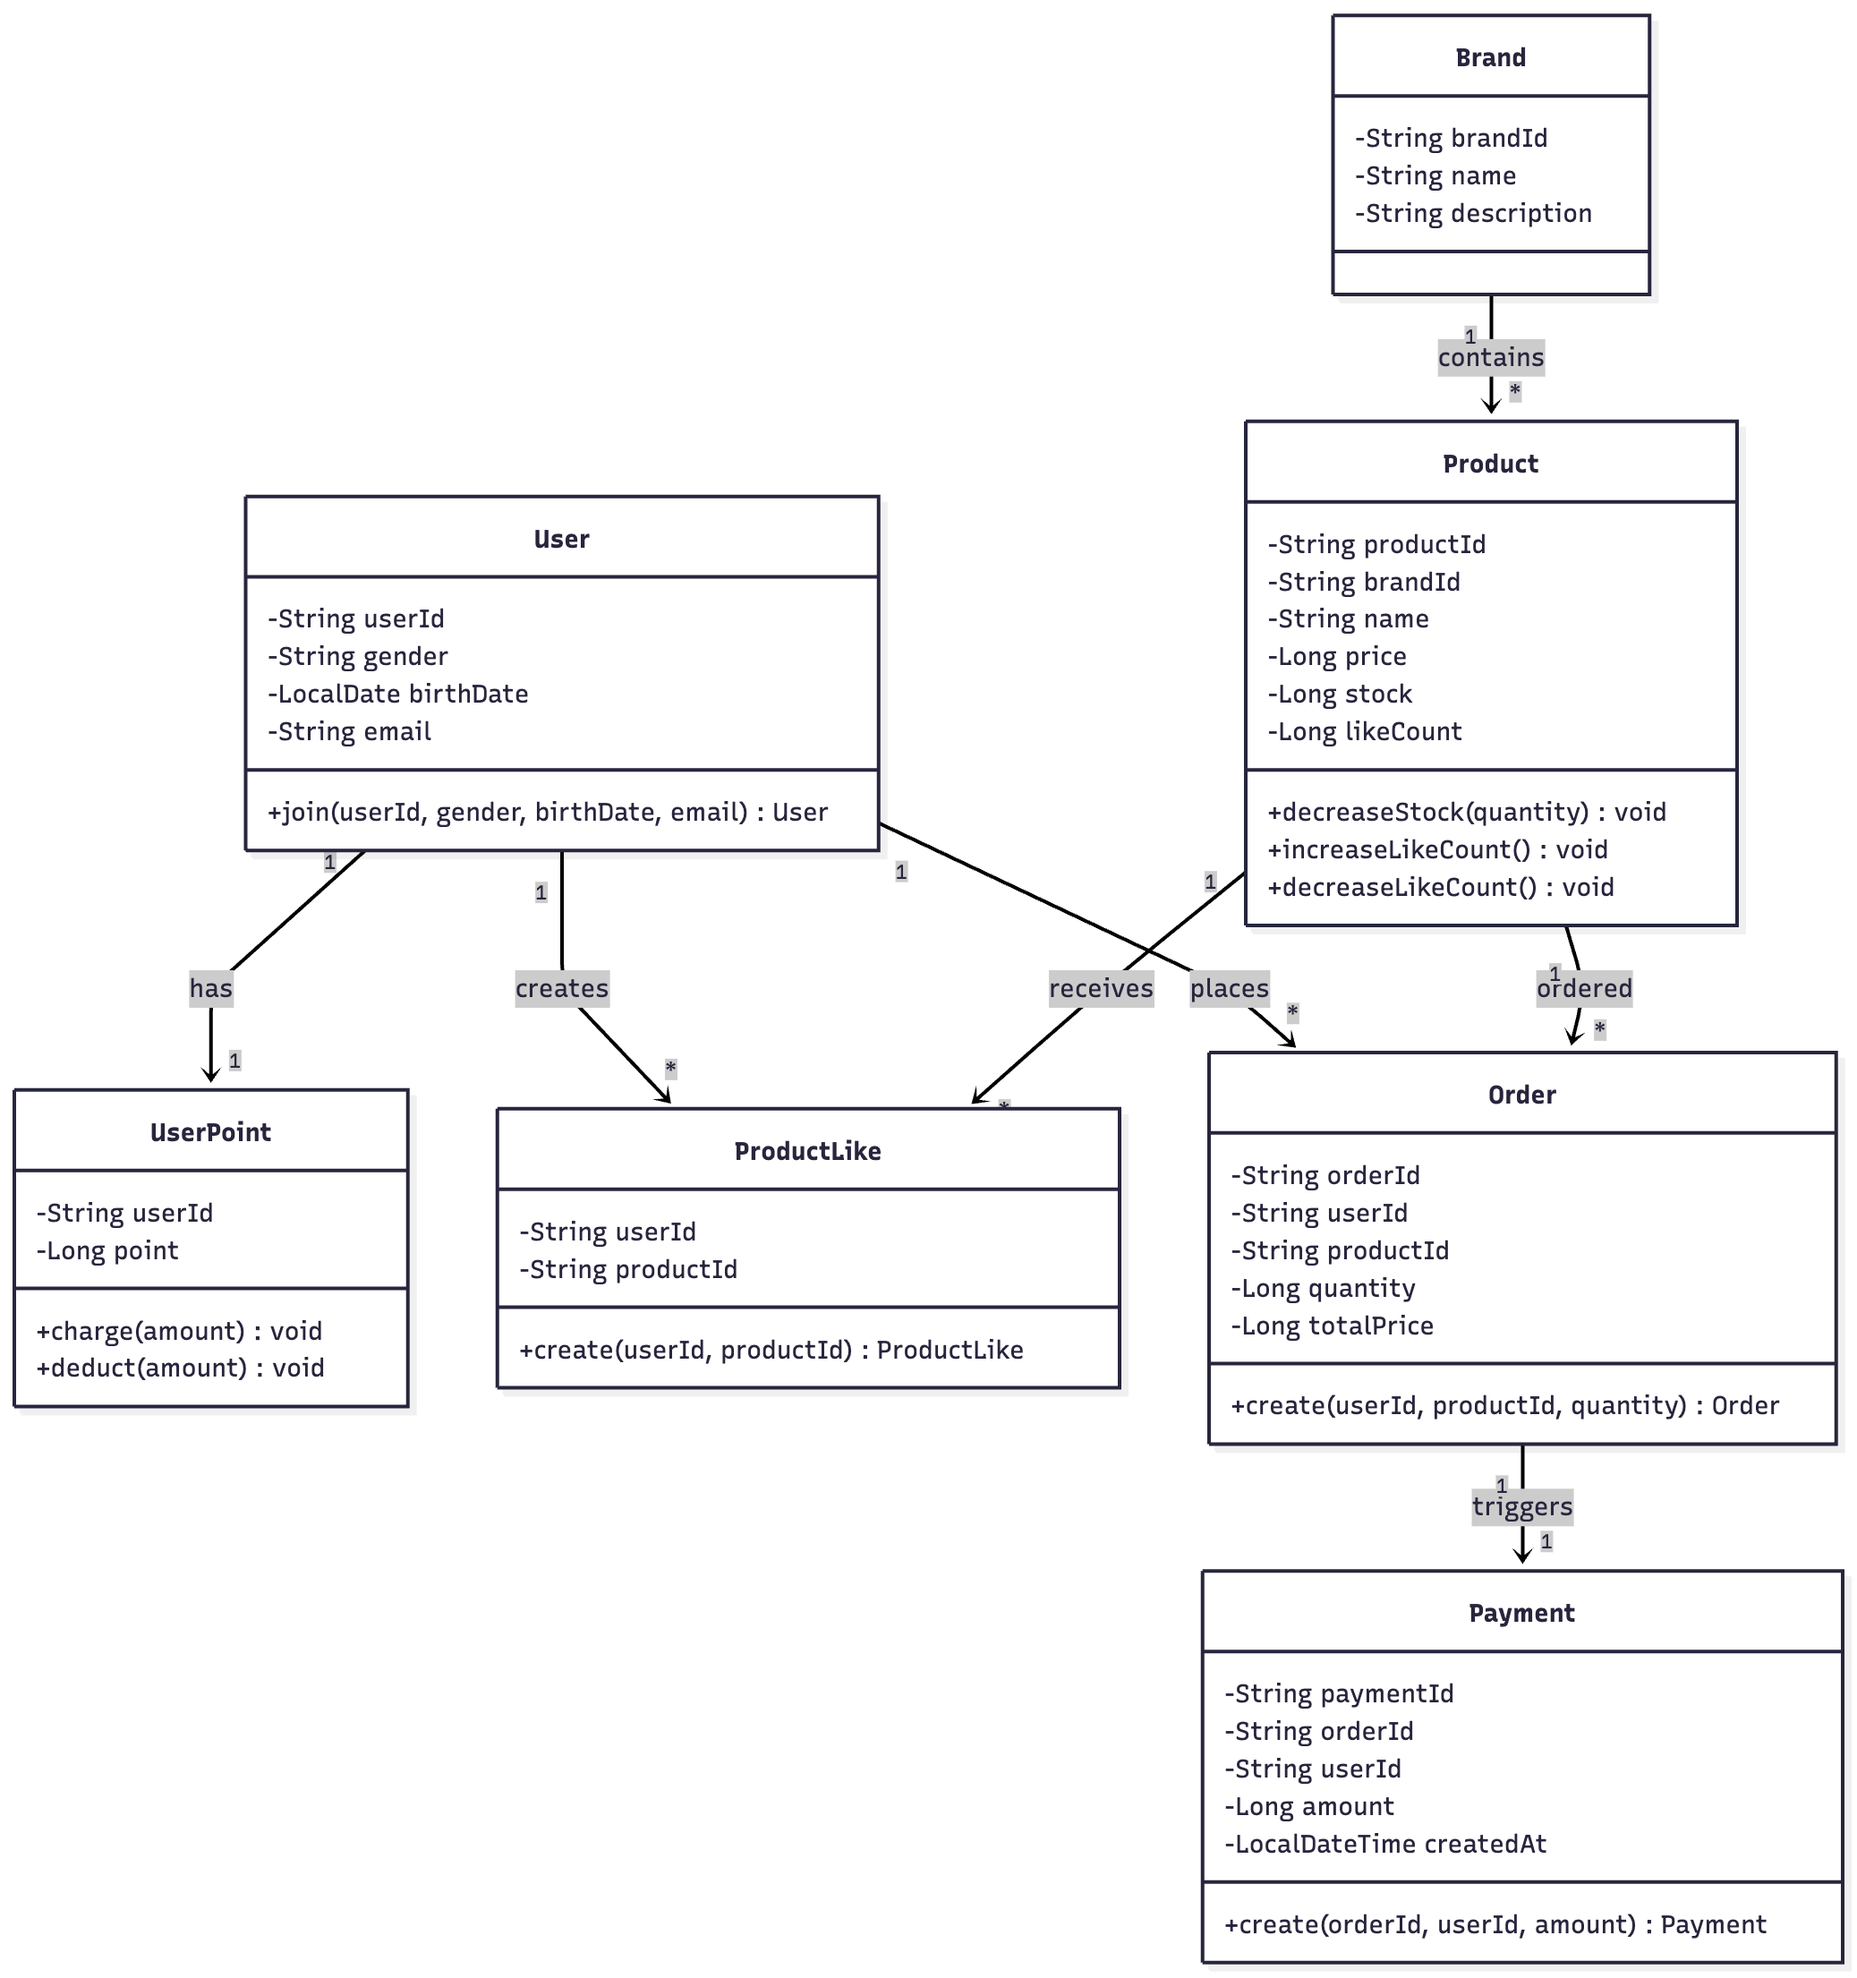
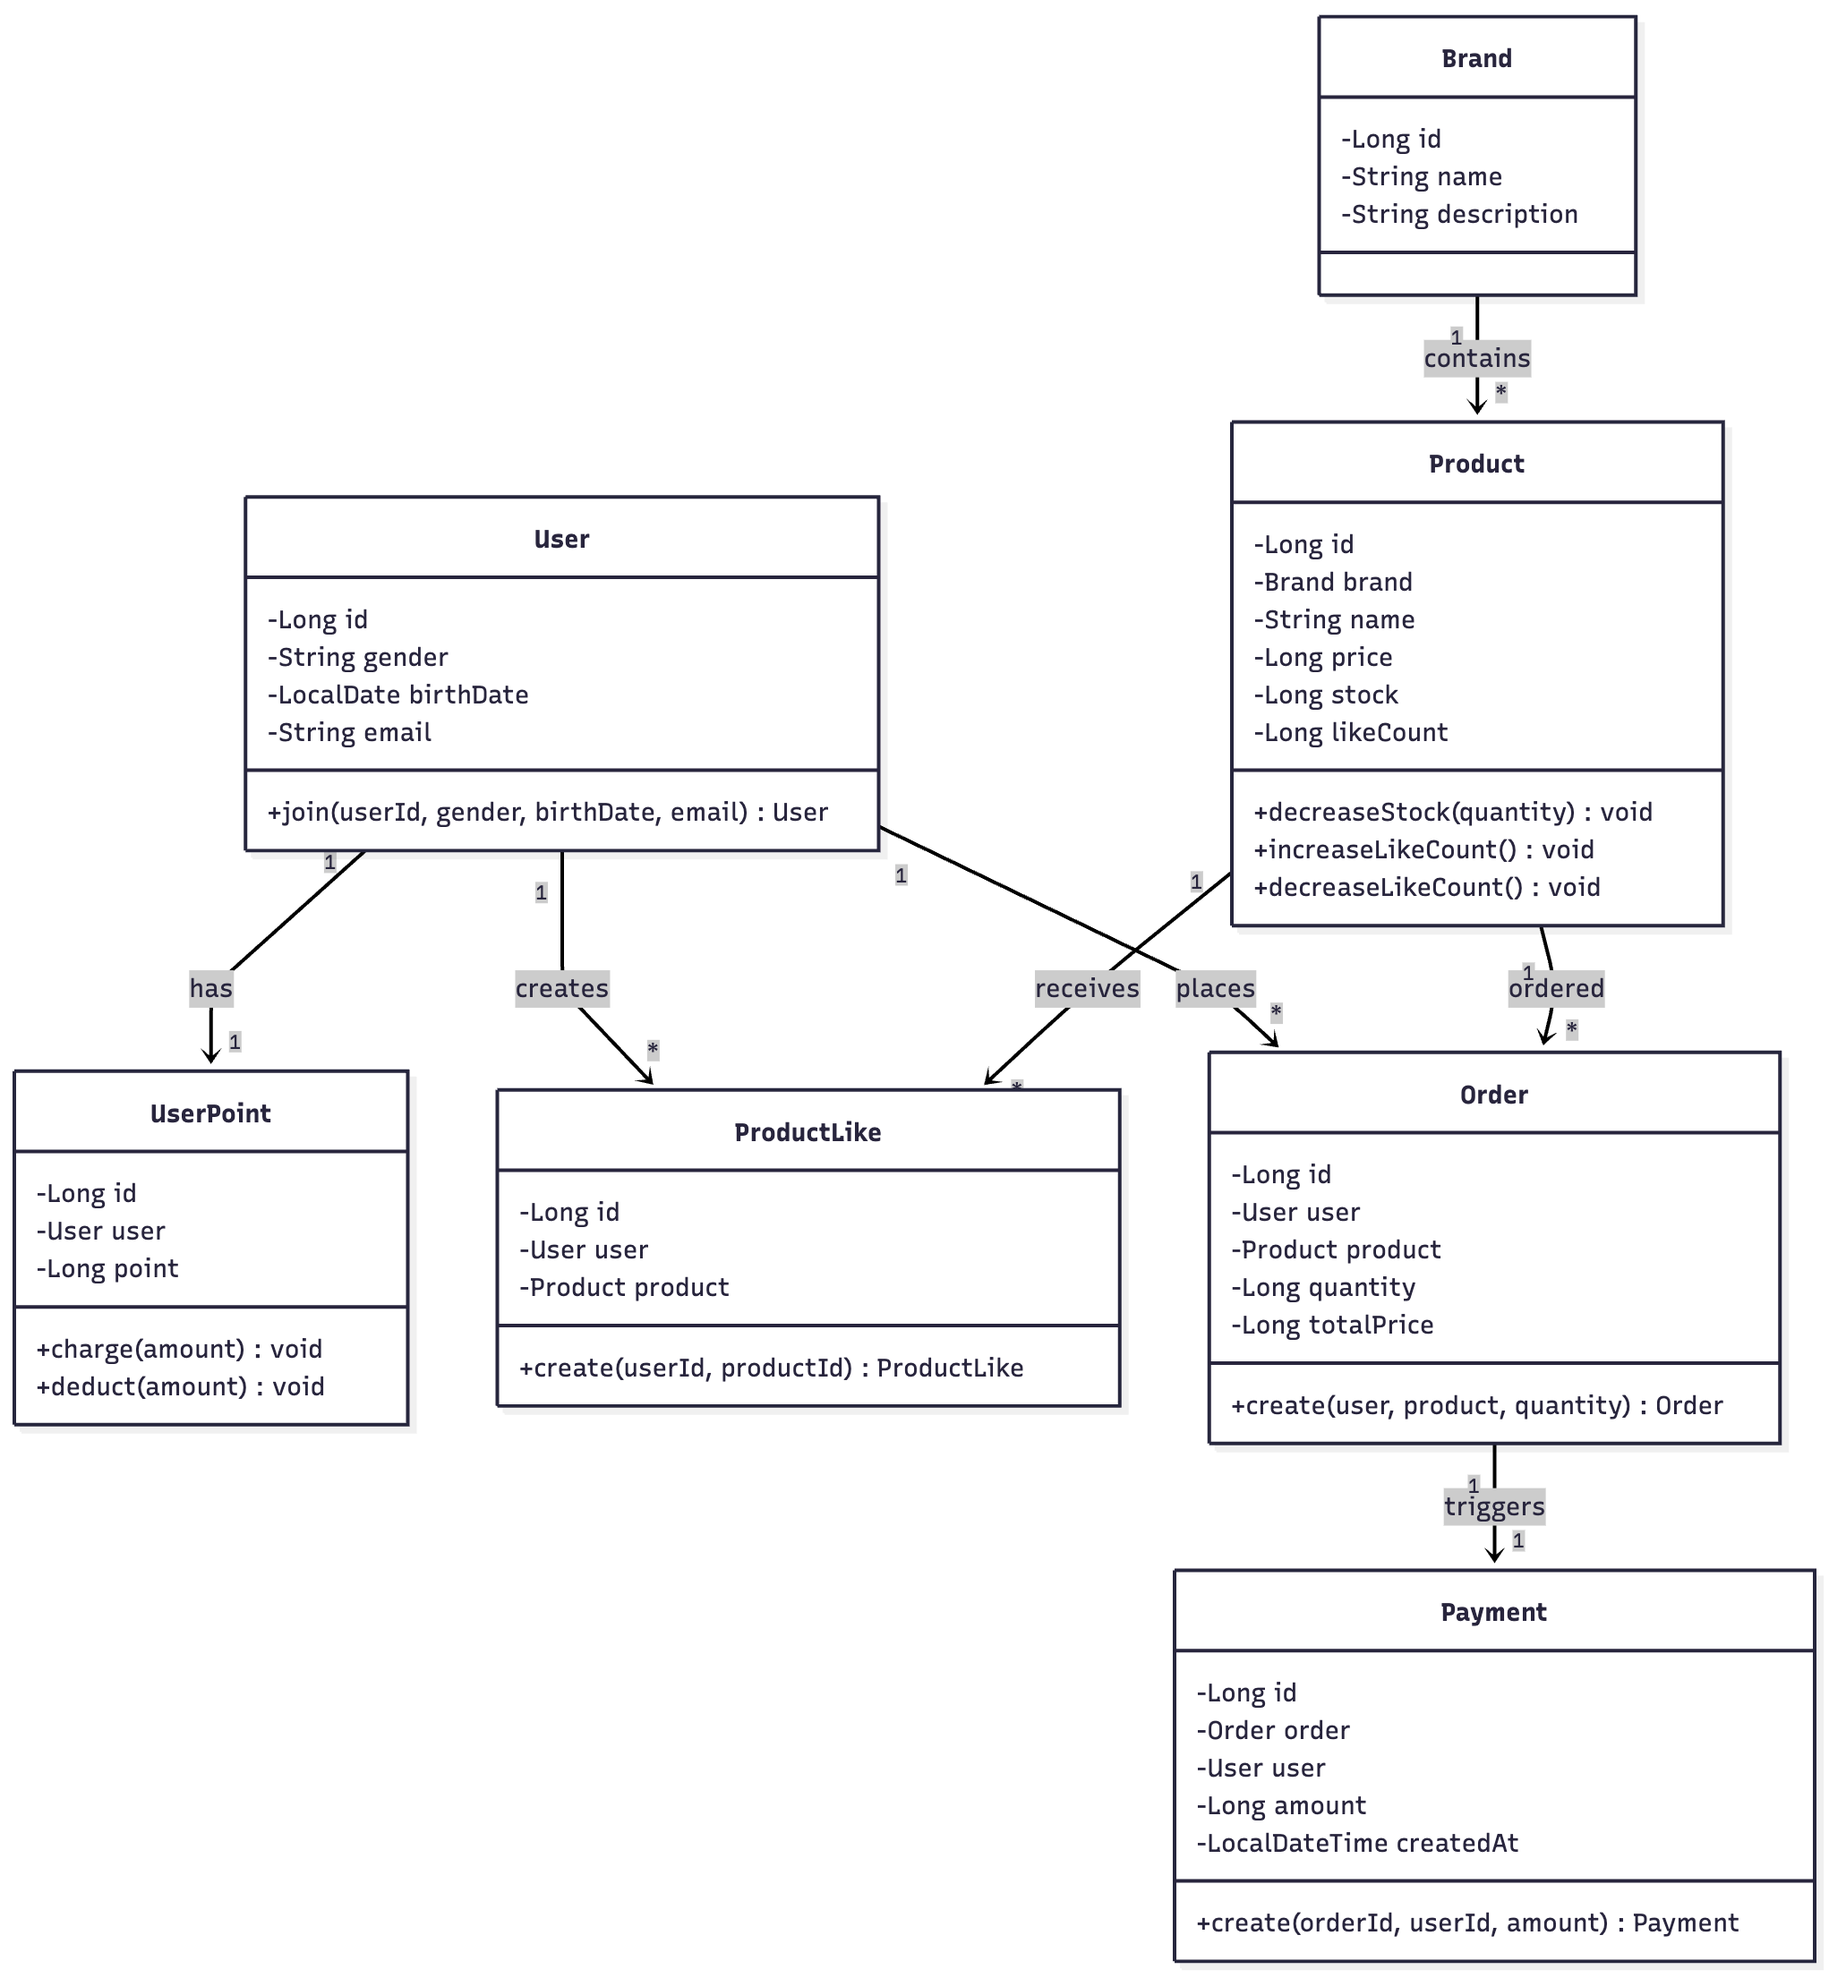
doc : 클래스 다이어그램 수정
- id 대신 의존 객체 직접 표현

diff --git a/.docs/03-class-diagram.md b/.docs/03-class-diagram.md
@@ -7,7 +7,7 @@
 ```mermaid
 classDiagram
     class User {
-        -String userId
+        -Long id
         -String gender
         -LocalDate birthDate
         -String email
@@ -15,21 +15,22 @@ classDiagram
     }
 
     class UserPoint {
-        -String userId
+        -Long id
+        -User user
         -Long point
         +charge(amount) void
         +deduct(amount) void
     }
 
     class Brand {
-        -String brandId
+        -Long id
         -String name
         -String description
     }
 
     class Product {
-        -String productId
-        -String brandId
+        -Long id
+        -Brand brand
         -String name
         -Long price
         -Long stock
@@ -40,24 +41,25 @@ classDiagram
     }
 
     class ProductLike {
-        -String userId
-        -String productId
+        -Long id
+        -User user
+        -Product product
         +create(userId, productId) ProductLike
     }
 
     class Order {
-        -String orderId
-        -String userId
-        -String productId
+        -Long id
+        -User user
+        -Product product
         -Long quantity
         -Long totalPrice
-        +create(userId, productId, quantity) Order
+        +create(user, product, quantity) Order
     }
 
     class Payment {
-        -String paymentId
-        -String orderId
-        -String userId
+        -Long id
+        -Order order
+        -User user
         -Long amount
         -LocalDateTime createdAt
         +create(orderId, userId, amount) Payment
@@ -77,7 +79,7 @@ classDiagram
 ### User (사용자)
 
 - **책임**: 사용자의 기본 정보를 관리하고 회원가입/정보 조회 처리
-- **속성**: userId, gender, birthDate, email
+- **속성**: id, gender, birthDate, email
 - **메서드**:
     - `join()`: 새로운 사용자 등록
 
